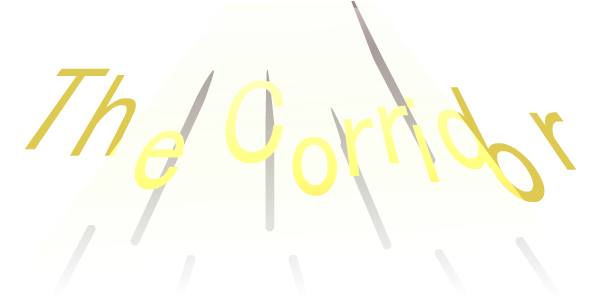
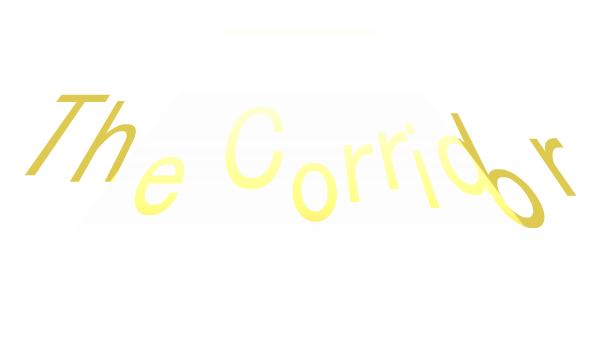
Added fake light flicker in home screen

diff --git a/src/Main.c b/src/Main.c
@@ -3,6 +3,8 @@
 #include <GL/gl.h>
 #include <GL/glu.h>
 #include <math.h>
+#include <stdlib.h>
+#include <time.h>
 
 #include "Racket.h"
 #include "Ball.h"
@@ -16,6 +18,9 @@
 #include <stdio.h>
 #endif // STBI_NO_STDIO
 
+
+/* RANDOM */
+int flickerCount = 0;
 
 float incre = 0;
 /* INTERRACTION */
@@ -34,13 +39,14 @@ GLfloat quitWindowHitbox[4][3];
 GLfloat TitleHitbox[4][3];
 
 /* TEXTURE Declaration */
-#define nbTextures 3
+#define nbTextures 4
 GLuint textures[nbTextures];
 textureData *images_datas;
 char *texturesPath[nbTextures] = {
     "./ressources/playButton.jpg", // 28 chars
     "./ressources/quitButton.jpg",  // 28 chars
-    "./ressources/Title.png"  // 23 chars
+    "./ressources/Title.png",  // 23 chars
+    "./ressources/Title2.png"  // 24 chars
 };
 
 /* Game variable */
@@ -402,6 +408,8 @@ int main(int argc, char const *argv[])
 
     images_datas = prepareTexture(textures ,nbTextures, texturesPath);
 
+    /* RANDOM */
+    srand(time(NULL));
     /*  ----  */
 
     onWindowResized(window, WINDOW_WIDTH, WINDOW_HEIGHT);
@@ -434,10 +442,21 @@ int main(int argc, char const *argv[])
             setCamera();
 
             glPushMatrix();
-            
+
+
             glEnable(GL_BLEND);
             glBlendFunc(GL_SRC_ALPHA, GL_ONE_MINUS_CONSTANT_ALPHA);
-            drawRectangleTextured(9., 3., 0, 2, -14, 2, 2, TitleHitbox);
+            // pseudo-Flickering
+            if (flickerCount == 0){
+            if ( rand() % 20 == 0){
+                drawRectangleTextured(9., 3., 0, 2, -14, 2, 3, TitleHitbox);
+                flickerCount += (rand()%4 + 2);
+            } else {
+                drawRectangleTextured(9., 3., 0, 2, -14, 2, 2, TitleHitbox);
+            }}else {
+                drawRectangleTextured(9., 3., 0, 2, -14, 2, 3, TitleHitbox);
+                flickerCount--;
+            }
             glDisable(GL_BLEND);
             glBlendFunc(GL_ONE, GL_ZERO);
 
